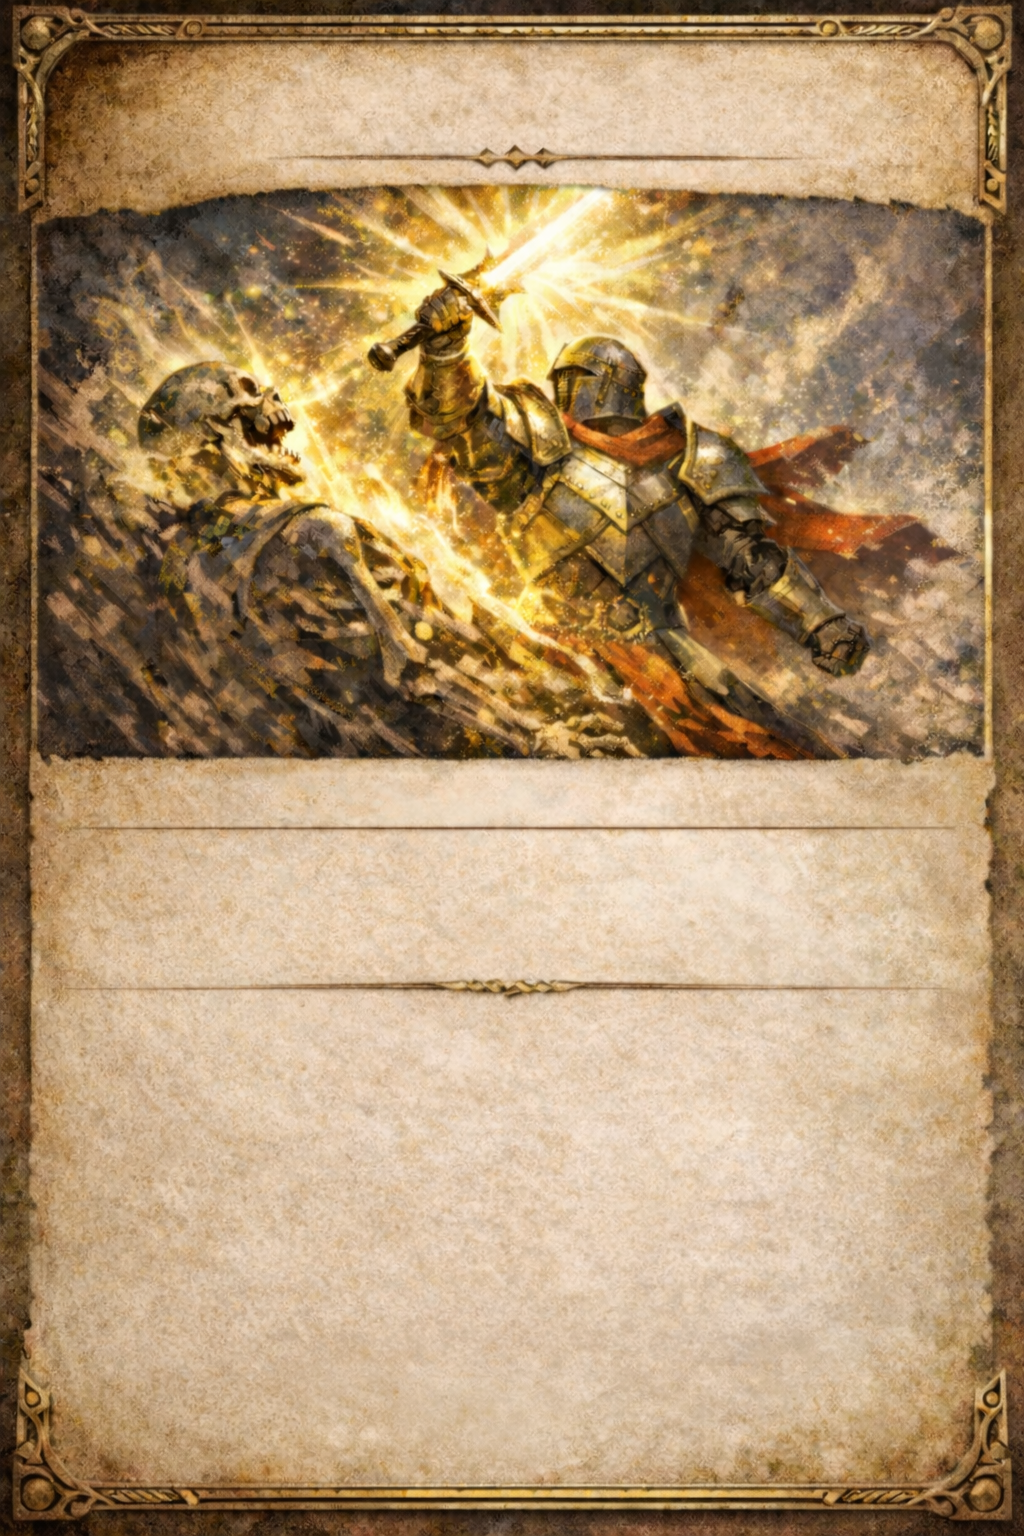
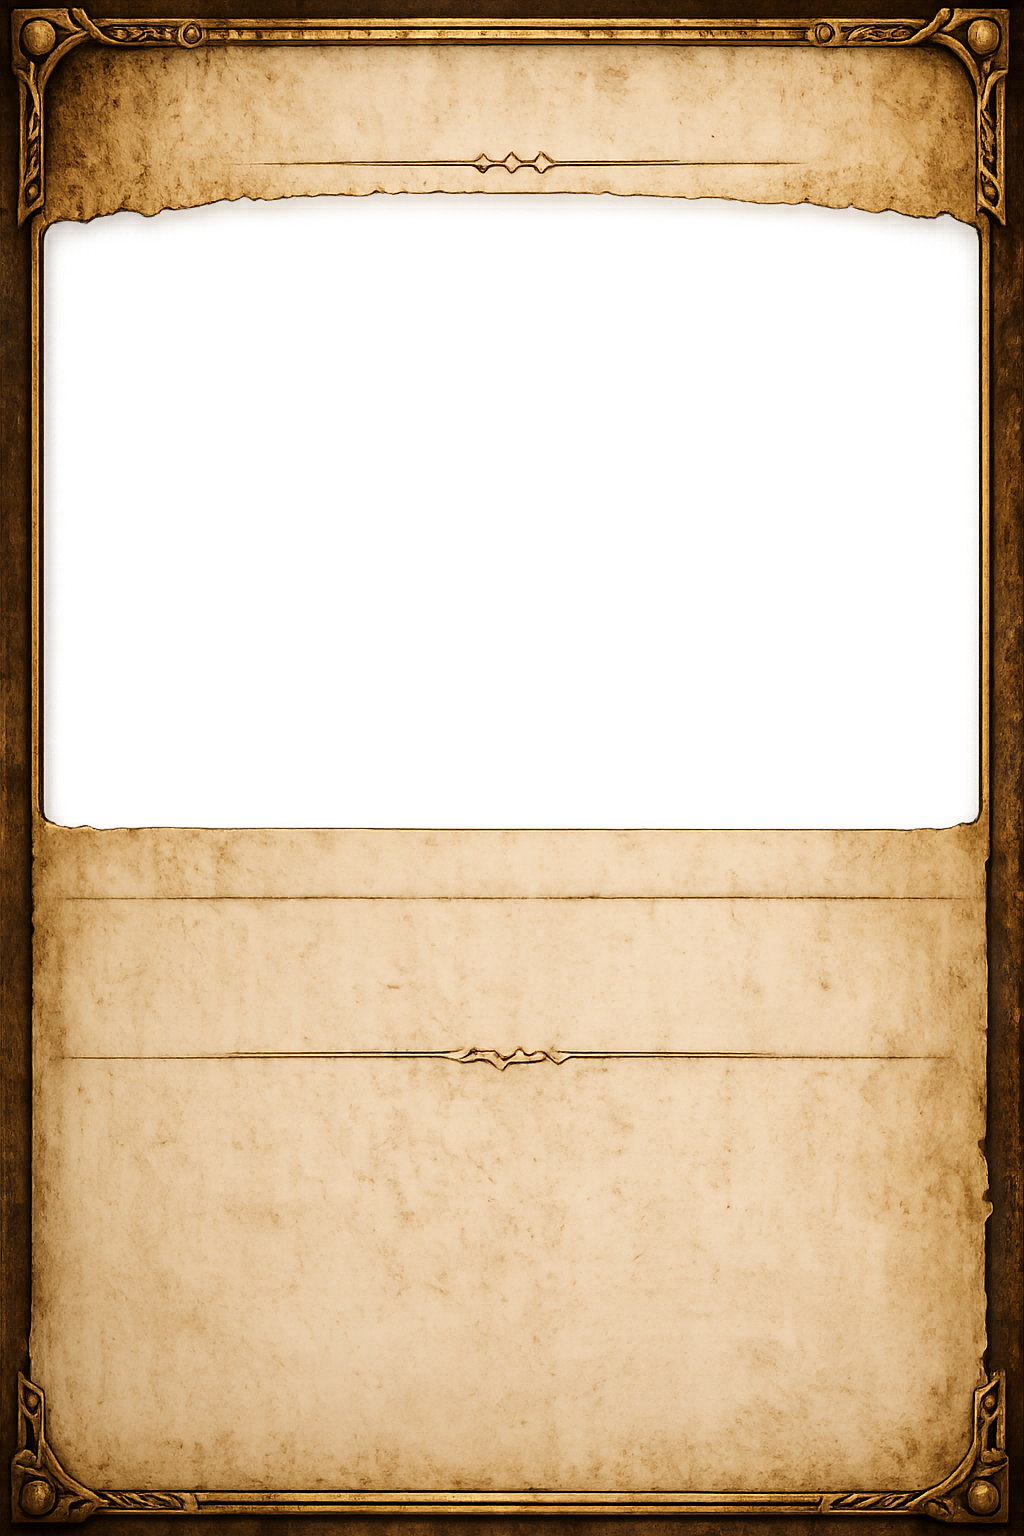
New palading frame and changable image

diff --git a/spells.html b/spells.html
@@ -108,28 +108,35 @@
 
   /* Top area: spell name + illustration */
   .card-top {
-    height: 49%;
-    flex-shrink: 0;
+    height: 190px;
     display: flex;
     flex-direction: column;
     align-items: center;
   }
 
   .spell-name {
-    margin-top: 10px;
-    height: 30px;
+    margin-top: 11px;
+    height: 25px;
     width: 212px;
     font-family: 'Cinzel', serif;
     font-weight: 700;
     font-size: clamp(7pt, 1.4vw, 11pt);
     color: var(--ink-light);
     text-align: center;
-    line-height: 30px;
+    line-height: 25px;
+  }
+
+  .spell-image {
+    margin-top: 8px;
+    width: 235px;
+    height: 146px;
+    background-size: cover;
+    background-position: center;
   }
 
   /* Bottom area: all text on the parchment */
   .card-bottom {
-    flex: 1;
+    height: 162px;
     padding: 0 20px;
     display: flex;
     flex-direction: column;
@@ -144,7 +151,7 @@
     font-weight: 600;
     color: var(--ink-light);
     text-align: center;
-    line-height: 20px;
+    line-height: 16px;
   }
 
   .spell-meta {
@@ -156,7 +163,7 @@
     font-size: clamp(4.5pt, 0.7vw, 6.5pt);
     color: var(--ink-light);
     line-height: 1.3;
-    align-content: center;
+    align-content: start;
   }
 
   .spell-meta .label {
@@ -448,6 +455,7 @@ spells.forEach(s => {
     <div class="card-content">
       <div class="card-top">
         <div class="spell-name">${s.name}</div>
+        <div class="spell-image"${s.img ? ` style="background-image: url('${s.img}')"` : ''}></div>
       </div>
       <div class="card-bottom">
         <div class="spell-level-school">${s.level} ${s.school}</div>

diff --git a/CLAUDE.md b/CLAUDE.md
@@ -21,3 +21,11 @@ Printable D&D 5e spell cards — a single-page static HTML app (`spells.html`) w
 - Print layout uses `@media print` to hide UI controls and arrange cards on A4 sheets
 - Font sizes use `clamp()` for responsive scaling between screen and print
 - Class filtering is done client-side by toggling `.hidden` on card elements
+
+## Spell Image Styles
+
+All spell illustrations share a base style: traditional oil painting, gritty textured brushstrokes, aged weathered look, classic fantasy book illustration, painterly and rough — not clean or digital.
+
+- **Paladin**: warm muted color palette of golds, browns and burnt orange, dramatic warm lighting
+- **Warlock**: dark greens, deep purples, sickly yellows and shadow blacks, eerie eldritch lighting
+- **Wizard**: deep blues, silvers, violet purples and arcane whites, cool mystical lighting
